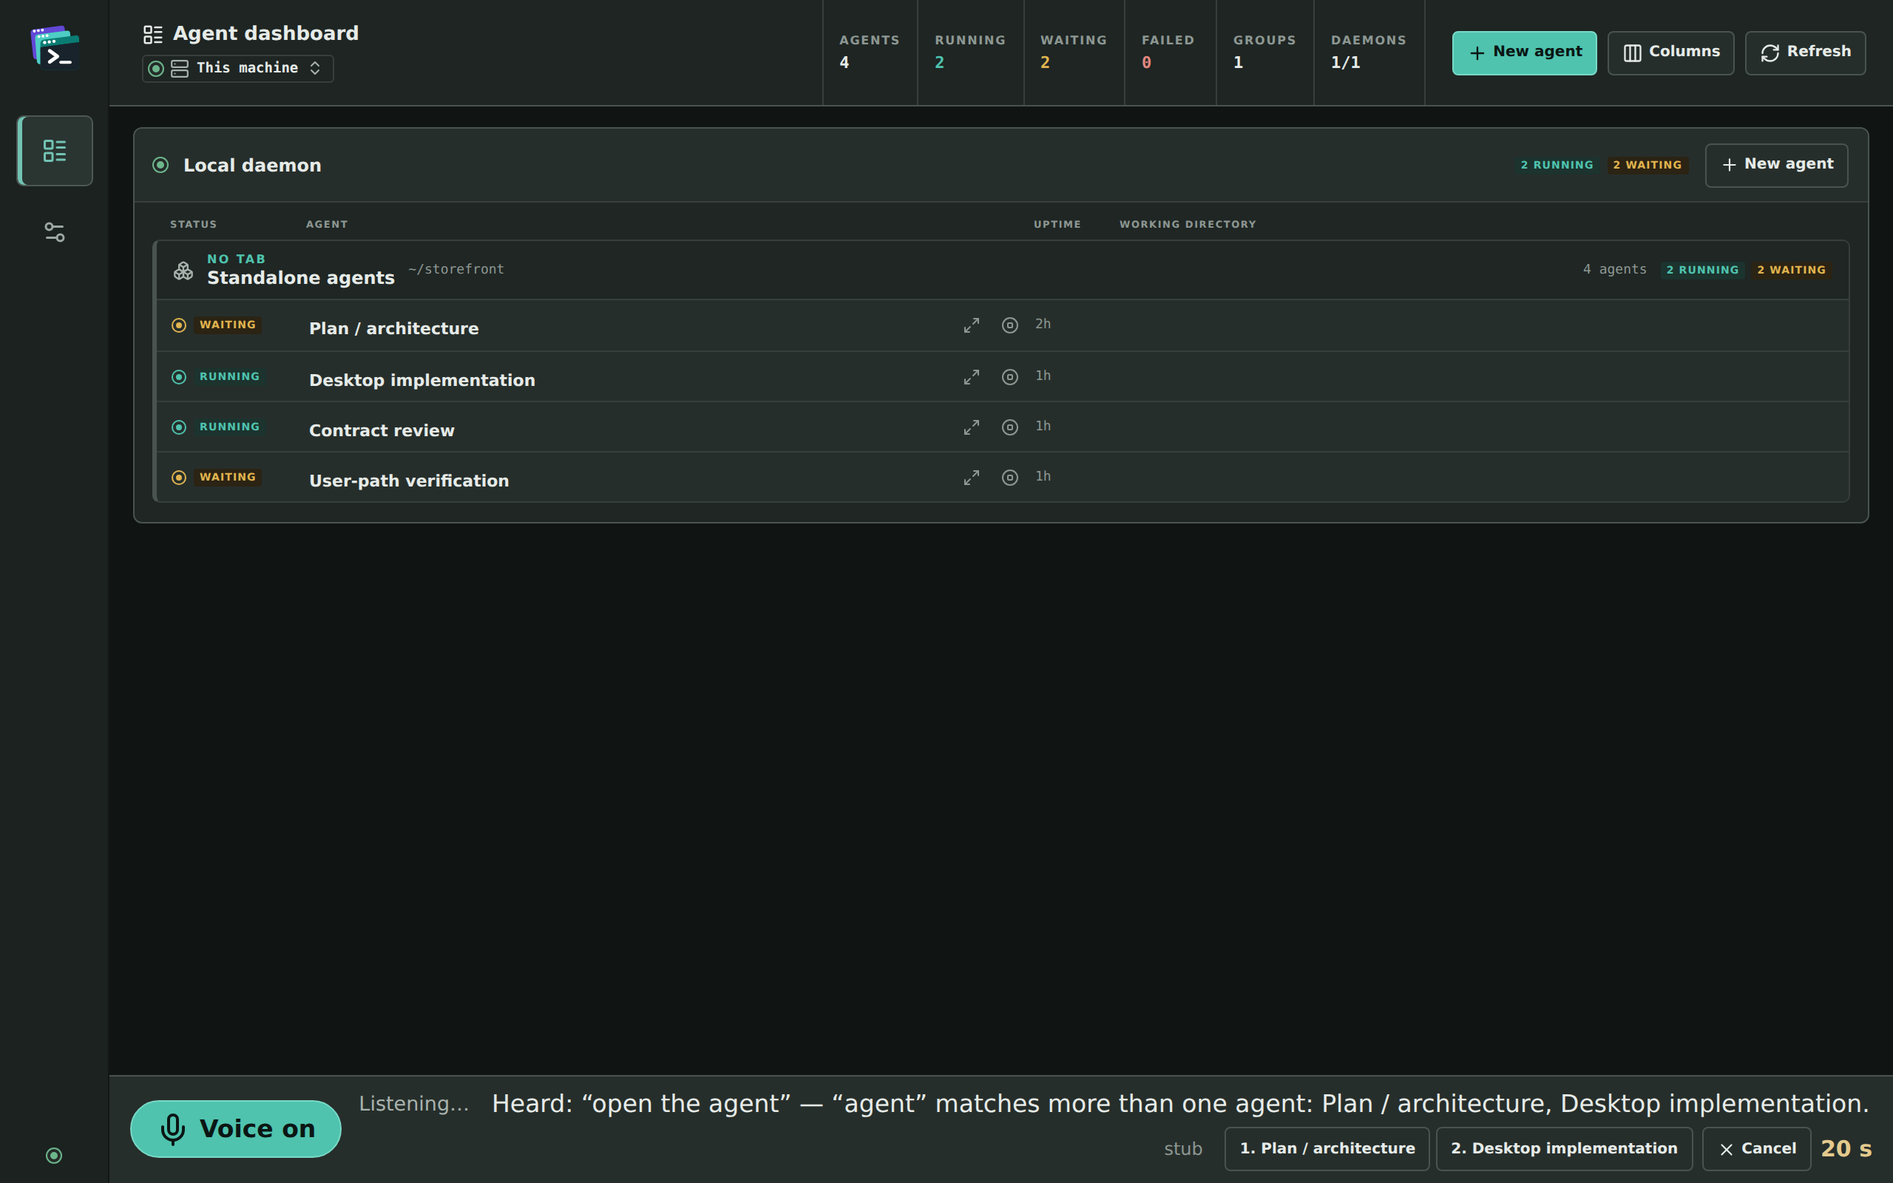
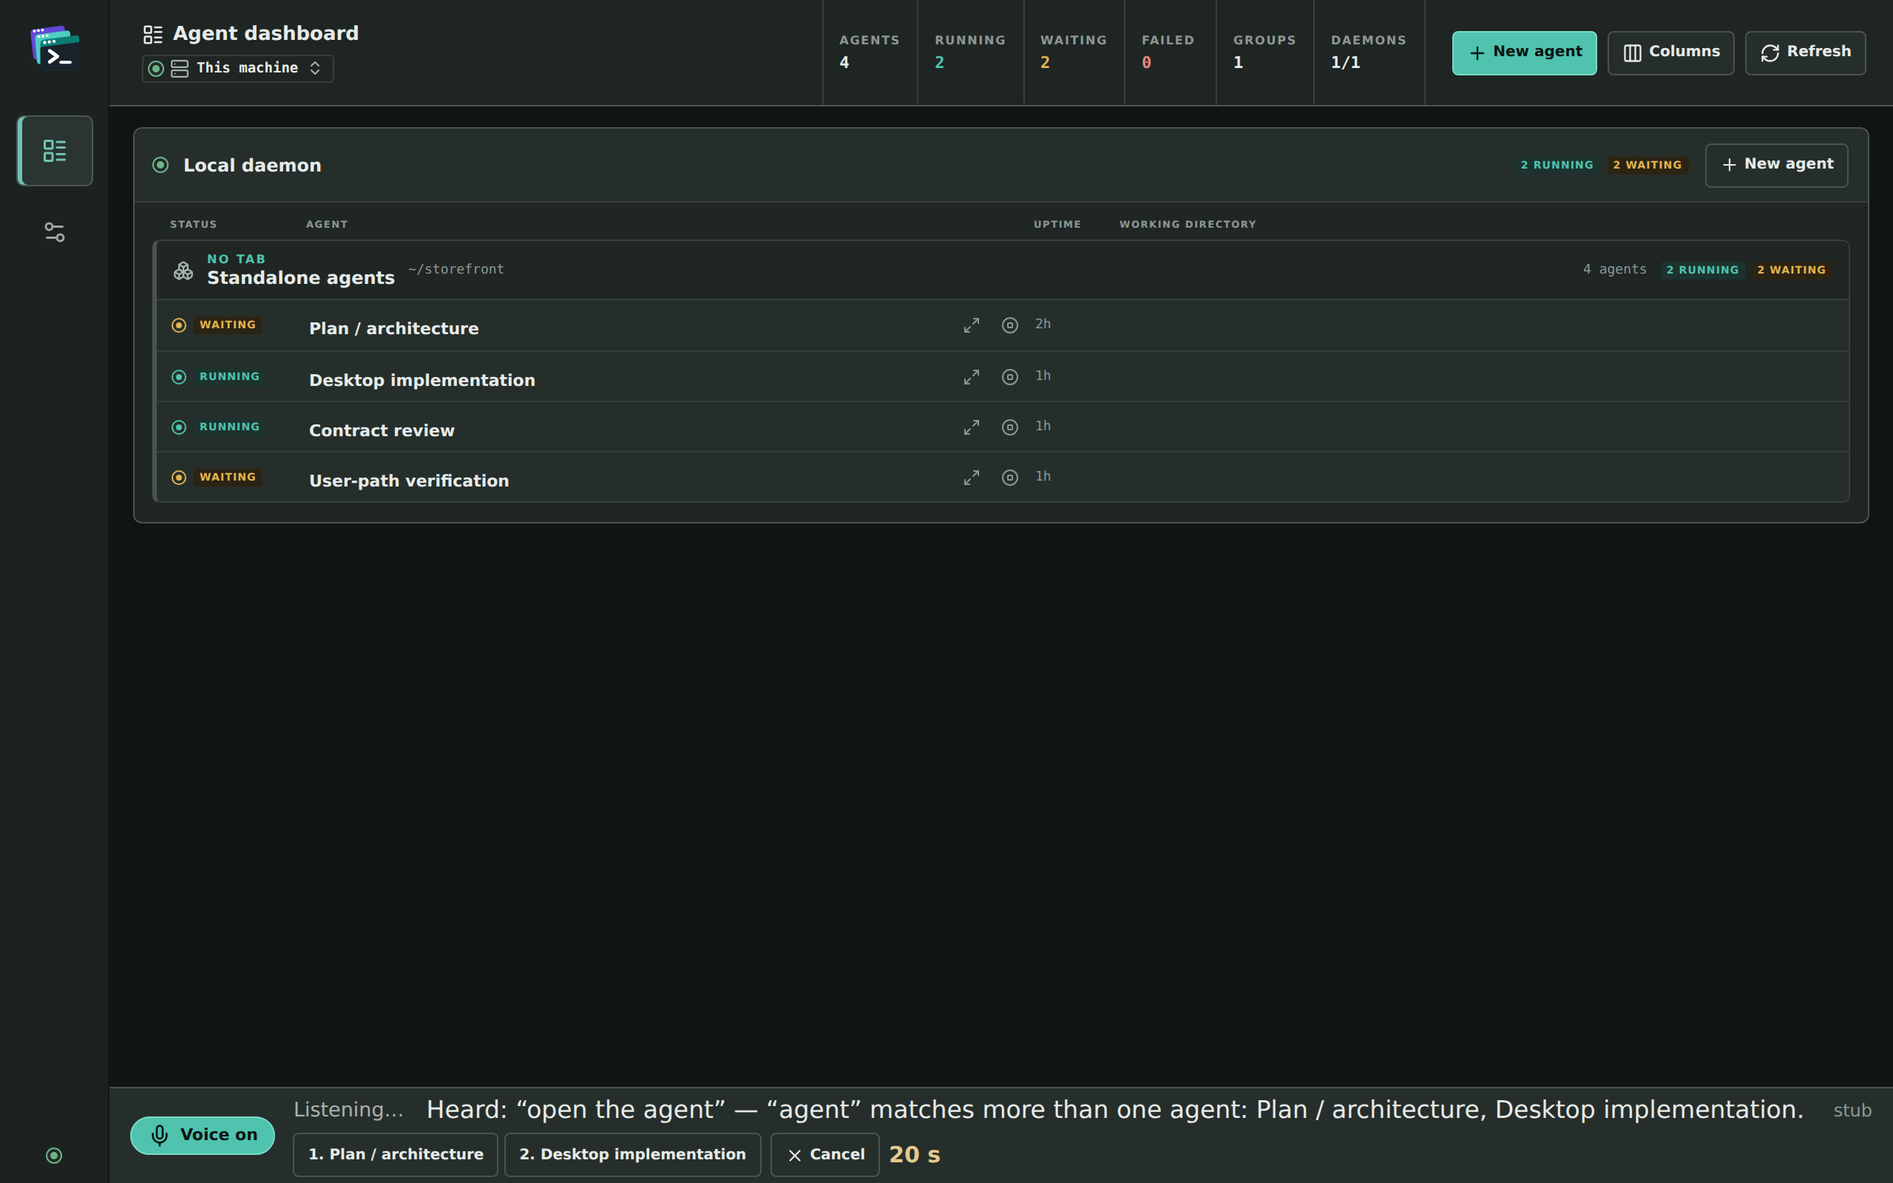
fix(voice): keep the Voice button its resting size while voice is on
Maintainer's hand test: at 1.5x the button made the voice row taller
than its text, and the difference was empty space. While voice is on
the status text stays 1.5x and still wraps, the button keeps its resting
size, and the row loses its 60px floor: it is only as tall as what it
holds, never under the resting 40px. The measured-height reservation is
unchanged. Both voice screenshots regenerated.

Changed region(s): [[0.0625, 0.9062, 1.0, 1.0]]

diff --git a/desktop/e2e/voice-control.spec.ts b/desktop/e2e/voice-control.spec.ts
@@ -228,10 +228,18 @@ test.describe("the voice row is reserved space", () => {
   async function rowSize(page: Page) {
     return page.evaluate(() => {
       const row = document.querySelector<HTMLElement>(".voice-row");
+      const trigger = document.querySelector<HTMLElement>(".voice-trigger");
       const label = document.querySelector<HTMLElement>(".voice-trigger span");
-      if (!row || !label) throw new Error("the voice row is not mounted");
+      if (!row || !trigger || !label) throw new Error("the voice row is not mounted");
+      const style = getComputedStyle(row);
+      const padding = parseFloat(style.paddingTop) + parseFloat(style.paddingBottom) + parseFloat(style.borderTopWidth) + parseFloat(style.borderBottomWidth);
       return {
         height: row.getBoundingClientRect().height,
+        // The tallest thing the row holds, so a row taller than this plus its
+        // own padding is holding empty space.
+        tallest: Math.max(...[...row.children].map((child) => child.getBoundingClientRect().height)),
+        padding,
+        button: { width: trigger.getBoundingClientRect().width, height: trigger.getBoundingClientRect().height },
         label: parseFloat(getComputedStyle(label).fontSize),
         sentences: [...row.querySelectorAll<HTMLElement>(".voice-sentence")].map((sentence) => parseFloat(getComputedStyle(sentence).fontSize)),
         reserved: parseFloat(getComputedStyle(document.documentElement).getPropertyValue("--voice-row-height")),
@@ -241,11 +249,12 @@ test.describe("the voice row is reserved space", () => {
 
   /**
    * Scenario: PR #1451 — turn voice on and let the fixture's utterance report.
-   * The row and its text are half as large again while voice is on, the page
-   * reserves the row's real height, and turning voice off returns the row and
-   * the reservation to their resting 40px.
+   * The status text is half as large again while the Voice button keeps its
+   * size, the row is no taller than what it holds, and the page reserves the
+   * row's real height; turning voice off returns the text and the reservation
+   * to their resting sizes.
    */
-  test("is half as large again while voice is on and back to its resting size when off", async ({ page }) => {
+  test("has half-as-large-again text and an unchanged button while voice is on", async ({ page }) => {
     await openWithSpeech(page);
     const off = await rowSize(page);
     expect(off.height).toBeCloseTo(40, 0);
@@ -254,8 +263,11 @@ test.describe("the voice row is reserved space", () => {
     await voiceButton(page).click();
     await expect(page.getByText("Opening the agent dashboard.")).toBeVisible();
     const on = await rowSize(page);
-    expect(on.height / off.height).toBeGreaterThanOrEqual(1.5);
-    expect(on.label / off.label).toBeCloseTo(1.5, 2);
+    // The maintainer's hand test: a 1.5x button left the row taller than its
+    // text, all of it empty. The button keeps its resting size.
+    expect(on.label).toBe(off.label);
+    expect(on.button.height).toBeCloseTo(off.button.height, 0);
+    expect(on.height, "the voice row holds empty space").toBeLessThanOrEqual(on.tallest + on.padding + 1);
     expect(on.sentences.length).toBeGreaterThan(0);
     for (const size of on.sentences) expect(size).toBeCloseTo(16.5, 2);
     expect(on.reserved).toBeCloseTo(on.height, 0);

diff --git a/desktop/src/styles.css b/desktop/src/styles.css
@@ -165,11 +165,14 @@
      order would win over it unconditionally. See `.voice-row` for what each one
      is and which surfaces subtract it. */
   --voice-row-height: 40px;
-  /* The row's least height while voice is ON (PR #1451): half as large again,
-     like its text. It grows past this when a sentence wraps, and then
+  /* The row's least height while voice is ON (PR #1451): the resting height,
+     a constant rather than `--voice-row-height` itself, because that variable
+     is overwritten with the row's measured height while voice is on and a
+     least height that read it could only ever grow. The row grows past this
+     when its larger text needs more, or a sentence wraps, and then
      `VoiceControlPanel` writes the measured height into `--voice-row-height`
      on the root, so every surface below still keeps clear of it. */
-  --voice-row-height-on: 60px;
+  --voice-row-min-height: 40px;
   /* The rail's height when it is a BOTTOM bar, which it is only under
      `max-width: 680px`. Zero everywhere else, so the row sits on the window's
      own bottom edge. */
@@ -1588,20 +1591,21 @@ code, kbd, .instrument strong, .agent-instruments strong, time { font-family: "J
 @keyframes voice-nudge { 50% { box-shadow: 0 0 0 3px var(--amber-rim); } }
 @media (prefers-reduced-motion: reduce) { .voice-send-hint[data-nudge="on"] { animation: none; } }
 
-/* PR #1451 — while voice is ON the row is half as large again, so what it says
-   can be read at a glance from the keyboard. Every size below is 1.5 times its
-   resting value above, and the row's least height is `--voice-row-height-on`.
+/* PR #1451 — while voice is ON what the row SAYS is half as large again, so it
+   can be read at a glance from the keyboard. Every text size below is 1.5
+   times its resting value above. The Voice button keeps its resting size: a
+   1.5x button made the row taller than its text, and the difference was empty
+   space (the maintainer's hand test). So the row is only as tall as what it
+   holds, never under `--voice-row-min-height`.
 
    **It wraps instead of eliding while on**, which is a change to the row's
    contract rather than an exception to it: the reservation every other surface
    makes is `--voice-row-height`, and while voice is on that is the row's
-   measured height (see `--voice-row-height-on`), so a wrapped sentence grows
+   measured height (see `--voice-row-min-height`), so a wrapped sentence grows
    the reservation with it instead of running under the screen. At a narrow
    window the larger text would otherwise lose most of a sentence to the
    ellipsis. Off, none of this applies and the row is its resting 40px. */
-.voice-row[data-voice="on"] { height: auto; min-height: var(--voice-row-height-on); padding-top: 8px; padding-bottom: 8px; }
-.voice-row[data-voice="on"] .voice-trigger { min-height: 39px; padding: 0 16px; border-radius: 20px; font-size: 16.5px; }
-.voice-row[data-voice="on"] .voice-trigger svg { width: 24px; height: 24px; }
+.voice-row[data-voice="on"] { height: auto; min-height: var(--voice-row-min-height); padding-top: 4px; padding-bottom: 4px; }
 .voice-row[data-voice="on"] .voice-report-card { flex-wrap: wrap; row-gap: 4px; column-gap: 15px; }
 .voice-row[data-voice="on"] .voice-sentence,
 .voice-row[data-voice="on"] .voice-dictation,

diff --git a/desktop/e2e/voice-commands.spec.ts b/desktop/e2e/voice-commands.spec.ts
@@ -158,9 +158,9 @@ test.describe("the empty report row", () => {
   /**
    * Scenario: press Voice in the preview and read the row before it has heard
    * anything. It names the phrase that lists everything, the phrase that
-   * stops, and the button — and it fits the row rather than growing it. The
-   * row is half as large again while voice is on (PR #1451), so that is the
-   * size it must keep: the hint fills one line of it, not two.
+   * stops, and the button — and it fits the reserved row rather than growing
+   * it, even at the larger size the row's text takes while voice is on
+   * (PR #1451).
    */
   test("names both ways out and does not grow the row", async ({ page }) => {
     // A script with nothing in it: the fixture then hears nothing at all, which
@@ -179,7 +179,7 @@ test.describe("the empty report row", () => {
 
     const after = await page.locator(".voice-row").boundingBox();
     expect(before, "the voice row has no layout box").not.toBeNull();
-    expect(after!.height, "the empty-state hint grew the reserved row").toBeCloseTo(before!.height * 1.5, 0);
+    expect(after!.height, "the empty-state hint grew the reserved row").toBeCloseTo(before!.height, 0);
   });
 });
 

diff --git a/docs/develop/desktop-gui.md b/docs/develop/desktop-gui.md
@@ -1710,7 +1710,7 @@ That sentence used to be written one quantifier wider — *every unknown resolve
 
 **The surface is ONE RESERVED ROW at the bottom of the window, and that is a layout decision the product owner made after driving the real app.** Until PR #1163's review round the trigger and the report were two independently fixed boxes at z-index 90, the report stacked above the button and growing upward as it filled — so it was drawn over whatever was beneath it, including over the enlarged agent pane, which is the one place the user is actually working. Moving the boxes buys a different collision rather than none: a floating box's height is its content's, and no other element can set room aside for something whose size it cannot know. A row can. `--voice-row-height` (40px at rest) is the contract, and every surface that would otherwise reach the window's bottom edge subtracts it — `.deck-main` on both screens, `.agent-pane-overlay`, `.reader-overlay`, `.evidence-drawer` and `.toast`, each marked *voice row* at its own rule. The row is z-index **95**: above the agent pane (90) and the reader overlay (80), below `.dialog-backdrop` (100). Two exclusions are deliberate rather than missed. A **modal dialog or sheet still covers the row**, which is correct — the voice surface is not exempted from `useInertBackground` for those the way it is for the agent pane, and shrinking their backdrops would leave a control clickable underneath a window-covering modal. And the **rail** is not on the list because it never overlaps: at desktop widths the row starts at the rail's right edge, and at `max-width: 680px`, where the rail becomes a 54px bottom bar, `--bottom-rail-height` lifts the row onto it. The agent pane keeps `inset: 0` — a modal scrim should cover the window — and it is its *content* box that stops above the row, via `padding-bottom`. The row's last report **persists** until the next utterance replaces it, which is now a decision rather than something inherited from the floating card: the space is reserved whether or not it holds anything, the pipeline goes straight back to listening, and a sentence that faded on a timer would be gone before a user who glanced away came back. `voice-control.spec.ts` asserts the geometry in both engines, including `elementFromPoint` at the row's own centre — a box comparison proves the pane's content stops above the row, and only a hit test proves a click there reaches the row rather than the scrim.
 
-**While voice is on, the row is half as large again and wraps** (PR #1451, so it can be read from the keyboard). `.voice-row[data-voice="on"]` sets every size in the row to 1.5× its resting value — the report's 11px to 16.5px, the trigger's label the same — with a least height of `--voice-row-height-on` (60px), and turns elision off: at a narrow window the larger text would otherwise lose most of a sentence to the ellipsis. That makes the row's height its content's, which is the exact property the reservation was built to avoid, so the contract moves with it rather than breaking: while voice is on, `VoiceControlPanel` measures the row in a layout effect and with a `ResizeObserver`, writes the height into `--voice-row-height` on the document root (which is also where `--voice-reserved` is computed, so both follow), and removes the inline value when voice turns off, back to the stylesheet's 40px. No surface had to change. `voice-control.spec.ts` asserts the 1.5× sizes and the reservation tracking the measured height, and, at a 420px-wide window in typing mode, that the status wraps onto more lines, is not clipped, stays inside the row, and that the enlarged agent still stops above the taller row; `voice-commands.spec.ts`'s empty-state check now pins the hint to one line of the *on* height rather than the resting one.
+**While voice is on, the row's TEXT is half as large again and wraps** (PR #1451, so it can be read from the keyboard). `.voice-row[data-voice="on"]` sets every text size in the report to 1.5× its resting value — 11px to 16.5px — and turns elision off: at a narrow window the larger text would otherwise lose most of a sentence to the ellipsis. **The Voice button keeps its resting size.** It was 1.5× too, with a 60px least height for the row, and the maintainer's hand test found the row then taller than its text with the difference empty, so the row is now only as tall as what it holds, never under `--voice-row-min-height` (40px, a constant rather than `--voice-row-height` itself, because that variable is overwritten while voice is on and a least height that read it could only grow). That makes the row's height its content's, which is the exact property the reservation was built to avoid, so the contract moves with it rather than breaking: while voice is on, `VoiceControlPanel` measures the row in a layout effect and with a `ResizeObserver`, writes the height into `--voice-row-height` on the document root (which is also where `--voice-reserved` is computed, so both follow), and removes the inline value when voice turns off, back to the stylesheet's 40px. No surface had to change. `voice-control.spec.ts` asserts the 1.5× text, the unchanged button, a row no taller than its tallest child plus its padding, and the reservation tracking the measured height; and, at a 420px-wide window in typing mode, that the status wraps onto more lines, is not clipped, stays inside the row, and that the enlarged agent still stops above the taller row. `voice-commands.spec.ts`'s empty-state check pins the hint to the resting height.
 
 **The `aria-modal` question went away with the dialog rather than being answered.** The exemption had made the voice dialog's own `aria-modal="true"` a false claim — a dialog that deliberately coexists with another interactive dialog, and that inerts nothing itself, is not modal in the ARIA sense — and the correction at the time was to state `aria-modal="false"` and trap no focus. There is now no dialog at all: a button and a `role="status"` live region, which claim no modality, take no focus and trap none, so nothing has to be stated. The live region is mounted before any sentence arrives, which is what makes the announcement reliable, and the card inside it is what appears and disappears. The agent pane's own `aria-modal="true"` is untouched: it genuinely inerts everything but one named peer, which is the ordinary shape of a modal with a status region beside it.
 

diff --git a/docs/desktop/voice.md b/docs/desktop/voice.md
@@ -25,7 +25,7 @@ To avoid the Docker step, choose **OpenAI — needs an OpenAI API key** under **
 
 ## Using it
 
-What the app did with each thing you said appears beside the Voice button and stays until the next one. The app keeps listening while it works out what you just said, so you can go on talking. You can pause in the middle of a command: when what you have said so far does not make a whole command, such as "set the command to be", the app waits about two seconds for the rest before saying it found nothing, and joins what you say next onto it. A command that is already complete runs without that wait. While it works out what you meant, the row shows the words it heard, for example *Heard “open settings”*; the answer then replaces them, and when the answer quotes your words itself (*Heard: “…” — no matching action.*) they are shown only once. When a command can be reversed, an **Undo** button is shown beside it for ten seconds. While voice is on, that row at the bottom of the window is larger, so you can read it from where you sit, and a long message wraps onto more lines instead of being cut off; it returns to its usual size when you turn voice off.
+What the app did with each thing you said appears beside the Voice button and stays until the next one. The app keeps listening while it works out what you just said, so you can go on talking. You can pause in the middle of a command: when what you have said so far does not make a whole command, such as "set the command to be", the app waits about two seconds for the rest before saying it found nothing, and joins what you say next onto it. A command that is already complete runs without that wait. While it works out what you meant, the row shows the words it heard, for example *Heard “open settings”*; the answer then replaces them, and when the answer quotes your words itself (*Heard: “…” — no matching action.*) they are shown only once. When a command can be reversed, an **Undo** button is shown beside it for ten seconds. While voice is on, the text in that row at the bottom of the window is larger, so you can read it from where you sit, and a long message wraps onto more lines instead of being cut off; it returns to its usual size when you turn voice off.
 
 Sounds that are not speech, such as typing on the keyboard, a cough or noise in the room, are ignored: nothing is typed or run for them, and what is shown beside the Voice button stays as it was.
 

diff --git a/prds/done/1260-voice-sticky-dictation-mode.md b/prds/done/1260-voice-sticky-dictation-mode.md
@@ -296,3 +296,4 @@ After the diagnosis above, the maintainer asked for the fix in this PR, noting t
 #1450's remaining measurements (silence artefacts typed in the mode, behaviour on a real microphone) are unchanged and stay there.
 
 Qodo, on `b3c51100`: (a) the kept device's cap timer started at the next `start`, so processing time was not counted — `CaptureTicket::remaining` now counts from when the device began recording the utterance (`voice_capture_a_kept_microphone_s_cap_counts_from_when_it_began_recording`); (b) a misheard phrase followed by a real command was joined and the command failed, and joins could chain — a joined sentence is never held again, and if it runs nothing the new words are tried alone ("runs a complete command said straight after words that matched nothing", "reports a joined sentence that still matches nothing at once", "does not join onto a joined sentence that matched nothing"); (c) "typing mode survives screen changes" was answered as not reachable: the panel's screen is `view.kind`, and a pane exists only while that is `agent`, so any screen change removes the pane and ends the mode through the pane check. Each fix red first and red again when reverted.
+- **Hand test, 2026-10-01: the larger Voice button wasted space.** At 1.5× the button made the voice row taller than its text, and the difference was empty. The button now keeps its resting size with voice on. The status text stays 1.5×. The row has no 60px floor any more: it is only as tall as what it holds, never under its resting 40px, and it still grows when a long message wraps. Test: "has half-as-large-again text and an unchanged button while voice is on" (`e2e/voice-control.spec.ts`). It asserts the unchanged button and a row no taller than its tallest child plus padding, and was red before the change. Restoring just the 60px floor turns it red again ("the voice row holds empty space"). Both voice screenshots were regenerated.

diff --git a/changelog.d/1260.feature.md b/changelog.d/1260.feature.md
@@ -6,6 +6,6 @@ Nothing is sent to the agent until you say "send it" on its own or press Enter, 
 
 If you stop talking for four seconds with words typed but not yet sent, “send it” to send is highlighted as a reminder; nothing is ever sent without you saying it or pressing Enter.
 
-While voice is on, the voice row at the bottom of the window is larger, so what it says can be read at a glance, and a long message wraps onto more lines instead of being cut off. It returns to its usual size when voice is off.
+While voice is on, the text in the voice row at the bottom of the window is larger, so what it says can be read at a glance, and a long message wraps onto more lines instead of being cut off. It returns to its usual size when voice is off.
 
 A bare "type on" or "type off" now always switches typing mode; say "type the word on" to type that word. See [Voice Control](https://agent-deck.devopstoolkit.ai/docs/desktop/voice#typing-mode).
